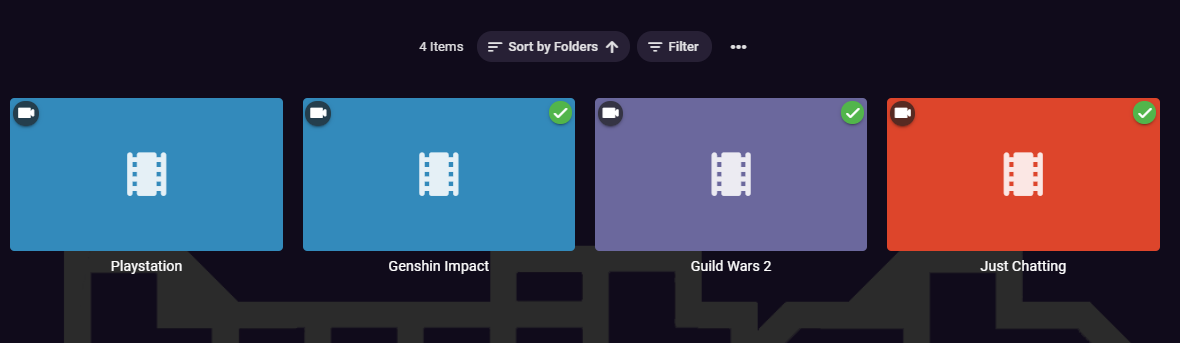
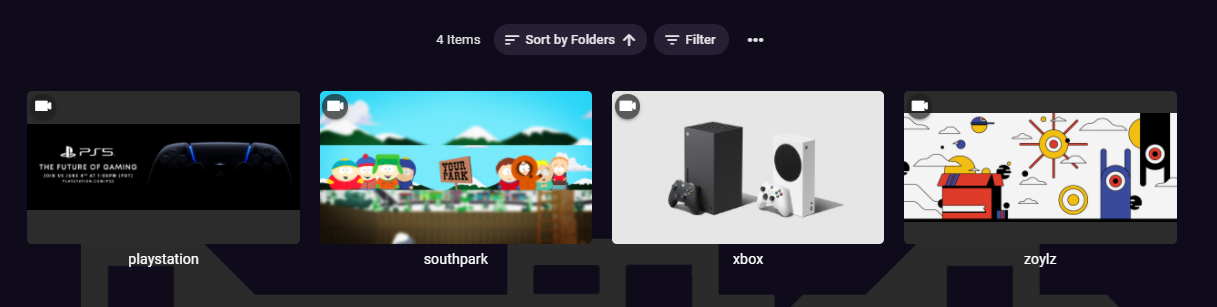
Retrieve channel description/profile to show on dashboard

diff --git a/MediaBrowser.Channels.Twitch/Channel.cs b/MediaBrowser.Channels.Twitch/Channel.cs
@@ -12,14 +12,20 @@ using MediaBrowser.Model.Dto;
 using MediaBrowser.Model.Logging;
 using System.Diagnostics;
 using MediaBrowser.Model.MediaInfo;
+using MediaBrowser.Common.Net;
+using MediaBrowser.Model.Serialization;
 
 namespace MediaBrowser.Channels.Twitch
 {
     public class Channel : IChannel, IHasCacheKey, IHasChangeEvent
-    {
+    { 
+        private readonly IHttpClient _httpClient;
         private readonly ILogger _logger;
+        private readonly IJsonSerializer _jsonSerializer;
 
         public event EventHandler ContentChanged;
+
+        private const string TWITCH_CLIENT_ID = "jexf81lm1alf3o79290nyzbulhc4dy";
 
         public void OnContentChanged()
         {
@@ -29,9 +35,11 @@ namespace MediaBrowser.Channels.Twitch
             }
         }
 
-        public Channel(ILogManager logManager)
+        public Channel(IHttpClient httpClient, ILogManager logManager, IJsonSerializer jsonSerializer)
         {
+            _httpClient = httpClient;
             _logger = logManager.GetLogger(GetType().Name);
+            _jsonSerializer = jsonSerializer;
         }
 
         // Increment as needed to invalidate all caches
@@ -48,17 +56,50 @@ namespace MediaBrowser.Channels.Twitch
 
             foreach (TwitchChannel i in Plugin.Instance.Configuration.TwitchChannels)
             {
+                // get user id
+                UserMetadata userMetadata = null;
+                ChannelMetadata channelMetadata = null;
+
+                if (String.IsNullOrWhiteSpace(i.ChannelId))
+                {
+                    userMetadata = await GetMetadataFromTwitchUserAsync(i.UserName);
+
+                    if (userMetadata != null && userMetadata.Users.Length > 0)
+                        i.ChannelId = userMetadata.Users[0]._id.ToString();
+                    else
+                        i.ChannelId = string.Empty;
+
+                    Plugin.Instance.SaveConfiguration(); // keep user id in db
+                }
+
+                if (String.IsNullOrWhiteSpace(i.ChannelId) == false)
+                    channelMetadata = await GetMetadataFromTwitchChannelAsync(i.ChannelId);
+
+                string imageUrl = String.Empty;
+                string overview = $"No description";
+                
+                if (channelMetadata != null)
+                {
+                    overview = channelMetadata.description;
+
+                    if (string.IsNullOrWhiteSpace(channelMetadata.profile_banner) == false)
+                        imageUrl = channelMetadata.profile_banner;
+
+                    if (string.IsNullOrWhiteSpace(imageUrl) && string.IsNullOrWhiteSpace(channelMetadata.video_banner) == false) // Profile banner has priority
+                        imageUrl = channelMetadata.video_banner;
+                }
+
                 items.Add(new ChannelItemInfo
                 {
                     ContentType = ChannelMediaContentType.Clip,
-                    ImageUrl = "",
+                    ImageUrl = imageUrl,
                     IsLiveStream = true,
                     MediaType = ChannelMediaType.Video,
                     MediaSources = (List<MediaSourceInfo>)await GetMediaSources(i.UserName, cancellationToken),
                     Name = i.Name.ToLowerInvariant(),
                     Id = i.UserName.ToLowerInvariant(),
                     ExtraType = ExtraType.Clip,
-                    Overview = $"{i.UserName}'s Twitch Channel",
+                    Overview = overview,
                     Type = ChannelItemType.Media,
                 });
             }
@@ -71,6 +112,46 @@ namespace MediaBrowser.Channels.Twitch
             return await Task.FromResult(channelItemResult);
         }
 
+        private async Task<ChannelMetadata> GetMetadataFromTwitchChannelAsync(string id)
+        {
+            try
+            {
+                HttpRequestOptions requestOptions = new HttpRequestOptions();
+                requestOptions.Url = $"https://api.twitch.tv/kraken/channels/{id}";
+                requestOptions.AcceptHeader = "application/vnd.twitchtv.v5+json";
+                requestOptions.RequestHeaders.Add("Client-ID", TWITCH_CLIENT_ID);
+
+                using (var data = await _httpClient.Get(requestOptions).ConfigureAwait(false))
+                {
+                    return _jsonSerializer.DeserializeFromStream<ChannelMetadata>(data);
+                }
+            }
+            catch
+            {
+                return null;
+            }
+        }
+
+        private async Task<UserMetadata> GetMetadataFromTwitchUserAsync(string userName)
+        { 
+            try
+            {
+                HttpRequestOptions requestOptions = new HttpRequestOptions();
+                requestOptions.Url = $"https://api.twitch.tv/kraken/users?login={userName.ToLowerInvariant()}";
+                requestOptions.AcceptHeader = "application/vnd.twitchtv.v5+json";
+                requestOptions.RequestHeaders.Add("Client-ID", TWITCH_CLIENT_ID);
+
+                using (var data = await _httpClient.Get(requestOptions).ConfigureAwait(false))
+                {
+                    return _jsonSerializer.DeserializeFromStream<UserMetadata>(data);
+                }
+            }
+            catch
+            {
+                return null;
+            }
+        }
+        
         private void GetVodFromTwitch(ref TwitchChannel channel)
         {
             channel.Path = "";

diff --git a/MediaBrowser.Channels.Twitch/ChannelMetadata.cs b/MediaBrowser.Channels.Twitch/ChannelMetadata.cs
@@ -1,0 +1,15 @@
+using System;
+using System.Collections.Generic;
+using System.Text;
+
+namespace MediaBrowser.Channels.Twitch
+{
+    public class ChannelMetadata
+    { 
+        public string status { get; set; }
+        public string logo { get; set; }
+        public string video_banner { get; set; }
+        public string profile_banner { get; set; }
+        public string description { get; set; }
+    }
+}

diff --git a/MediaBrowser.Channels.Twitch/UserMetadata.cs b/MediaBrowser.Channels.Twitch/UserMetadata.cs
@@ -1,0 +1,17 @@
+using System;
+using System.Collections.Generic;
+using System.Text;
+
+namespace MediaBrowser.Channels.Twitch
+{
+    public class UserMetadata
+    {
+        public int _total { get; set; }
+        public UserMetadataItem[] Users { get; set; }
+    }
+
+    public class UserMetadataItem
+    {
+        public long _id { get; set; }
+    }
+}

diff --git a/MediaBrowser.Channels.Twitch/TwitchChannel.cs b/MediaBrowser.Channels.Twitch/TwitchChannel.cs
@@ -13,5 +13,6 @@ namespace MediaBrowser.Channels.Twitch
         public string Path { get; set; }
         public string Image { get; set; }
         public MediaProtocol Protocol { get; set; }
+        public string ChannelId { get; set; }
     }
 }

diff --git a/README.md b/README.md
@@ -10,14 +10,17 @@ It a _basic_ plugin so I can watch streams on the TV without extra hardware or s
 ---
 ## Getting started
 
+**NOTES**: 
 
-- This plugin needs [streamlink](https://github.com/streamlink/streamlink) to get the vod url for the live stream. The streamlink should be installed and on the path. Since Twitch API is not documented, streamlink may stop without notice and so this plugin. Keep streamlink updated.
+> When adding a new channel, metadata (pictures & description) is being downloaded by the plugin, it may take a moment to be displayed on dashboard.
 
-![Dashboard](img/twitch_add.png)
+> This plugin needs [streamlink](https://github.com/streamlink/streamlink) to get the vod url for the live stream. **The streamlink should be installed and added to system path.** 
+
+>Since Twitch API is not documented, streamlink may stop without notice and so this plugin. Keep streamlink updated.
 
 - Compile using Visual Studio and copy the DLL to Emby plugins directory. Restart the server and go to Plugins -> Twitch. Add your channels, then you can access them from the dashboard.
 
-- A new VoD URL is request when pressing Play on the Video. Sometimes there is a caché and Emby won't process the callback.
+- A new VoD URL is requested when opening the channel. Sometimes there is a caché and Emby won't process the callback. Wait a few minutes and try again.
 
 
 ---
